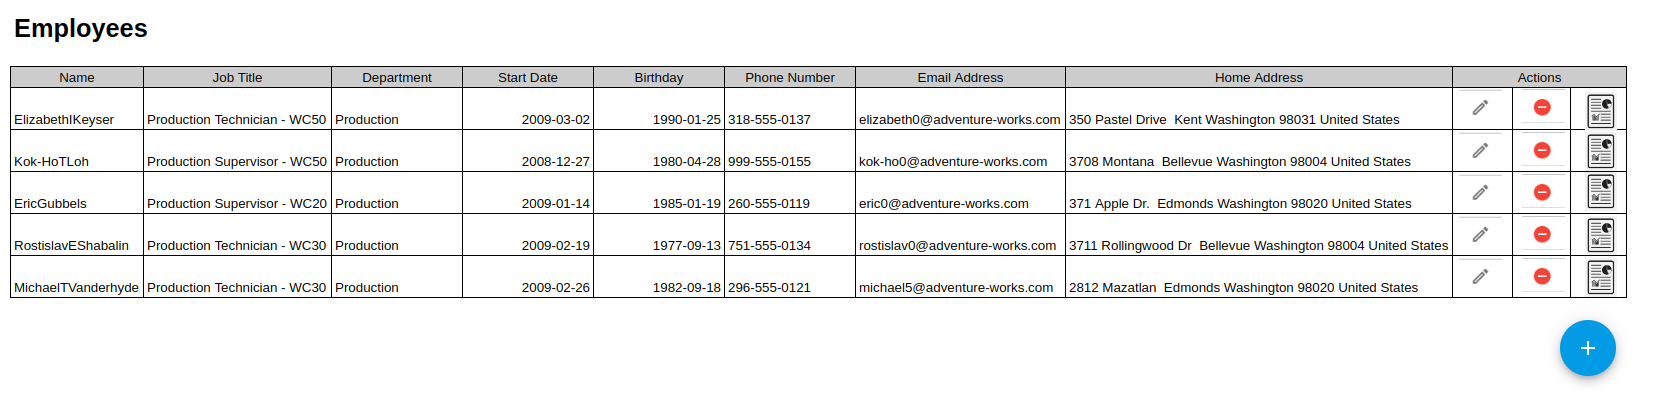
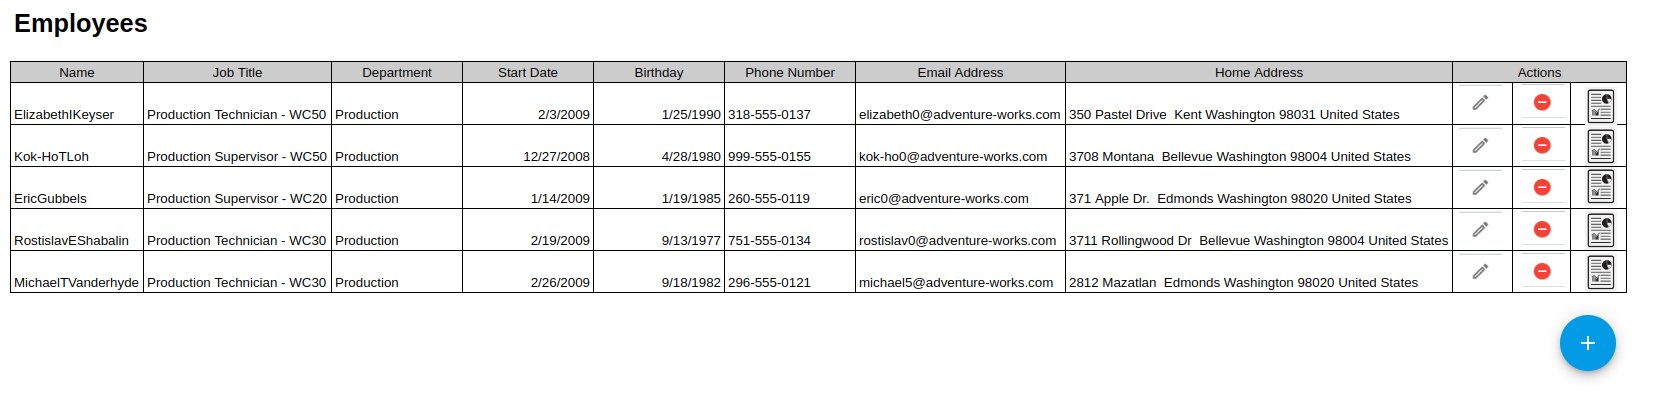
fix format date in mockup employee list and sales report calculate total in sales report change status

diff --git a/docs/project.md b/docs/project.md
@@ -2,9 +2,9 @@
 
 Author(s): Karla Sequen
 
-Status: [Ready for review]
+Status: [Reviewed]
 
-Last Updated: 2023-06-27
+Last Updated: 2023-06-28
 
 ## Objective
 
@@ -165,7 +165,7 @@ SELECT t0.OrderDate
      , CONCAT(t1.AddressLine1, ' ', t1.City, ' ', t2.Name, ' ', t1.PostalCode, ' ', t3.Name) AS address
      , t0.SubTotal
      , t0.TaxAmt
-     , t0.TotalDue
+     , t0.SubTotal + t0.TaxAmt                                                               AS total
 FROM Sales.SalesOrderHeader t0
          JOIN Person.Address t1
               ON t0.BillToAddressID = t1.AddressID
@@ -177,11 +177,6 @@ WHERE t0.CurrencyRateID IS NULL -- necessary to show only sales from US in $
   AND t0.OrderDate BETWEEN '2012-01-01' AND '2023-01-01'
   AND t0.SalesPersonID = 279; -- employee ID
 ```
-
-TODO:
-
-- Which date is necessary to use for the filters? OrderDate, DueDate or ShipDate
-- For the total includes the Freight value, is it necessary to add that column?
 
 ## Solution
 
